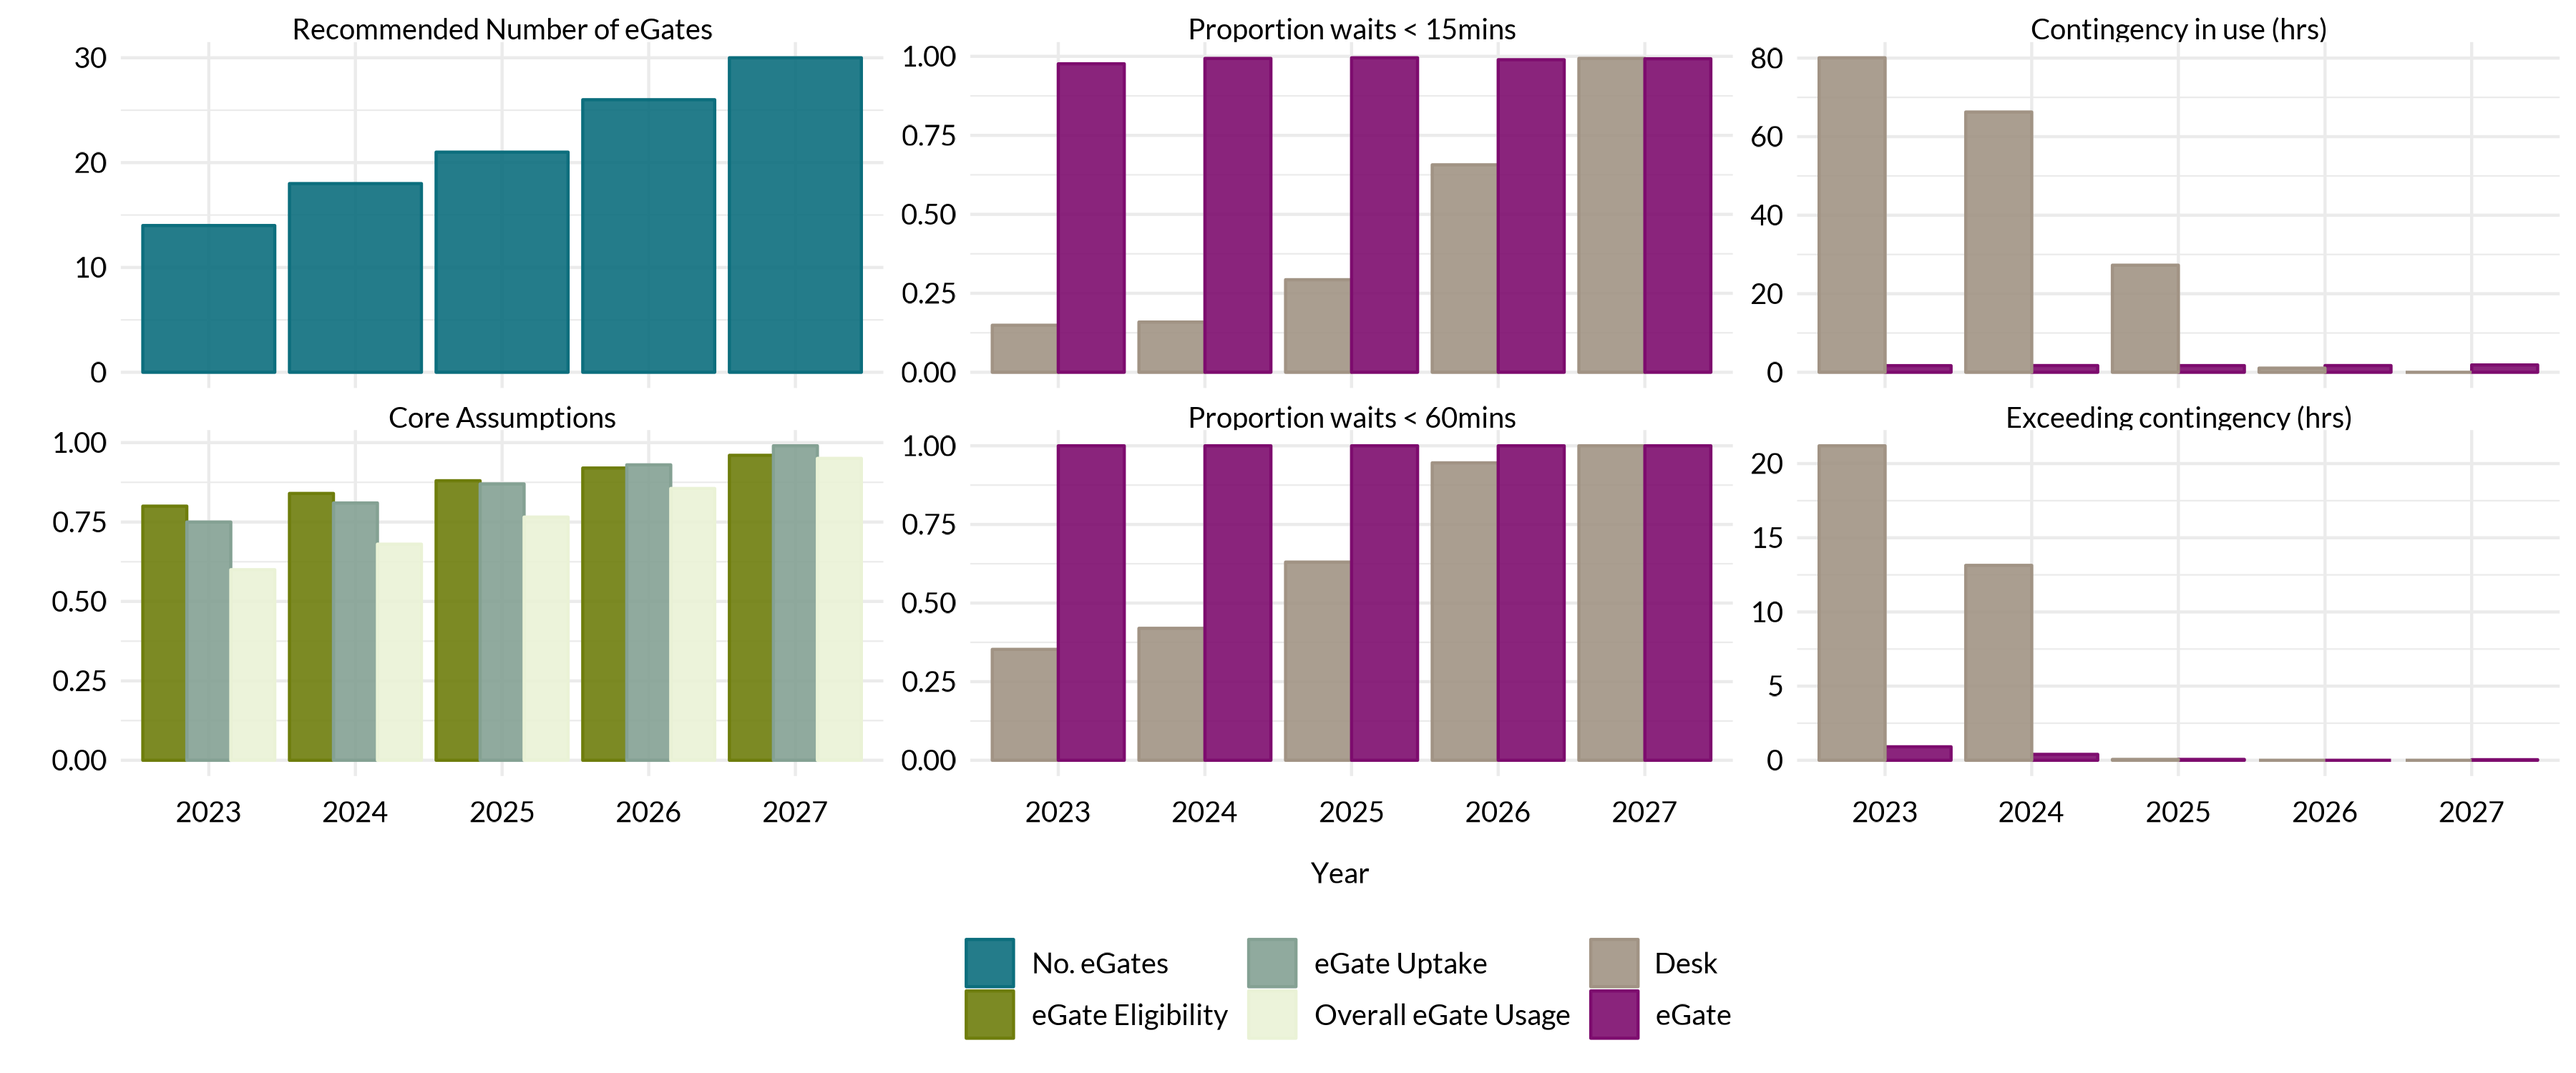
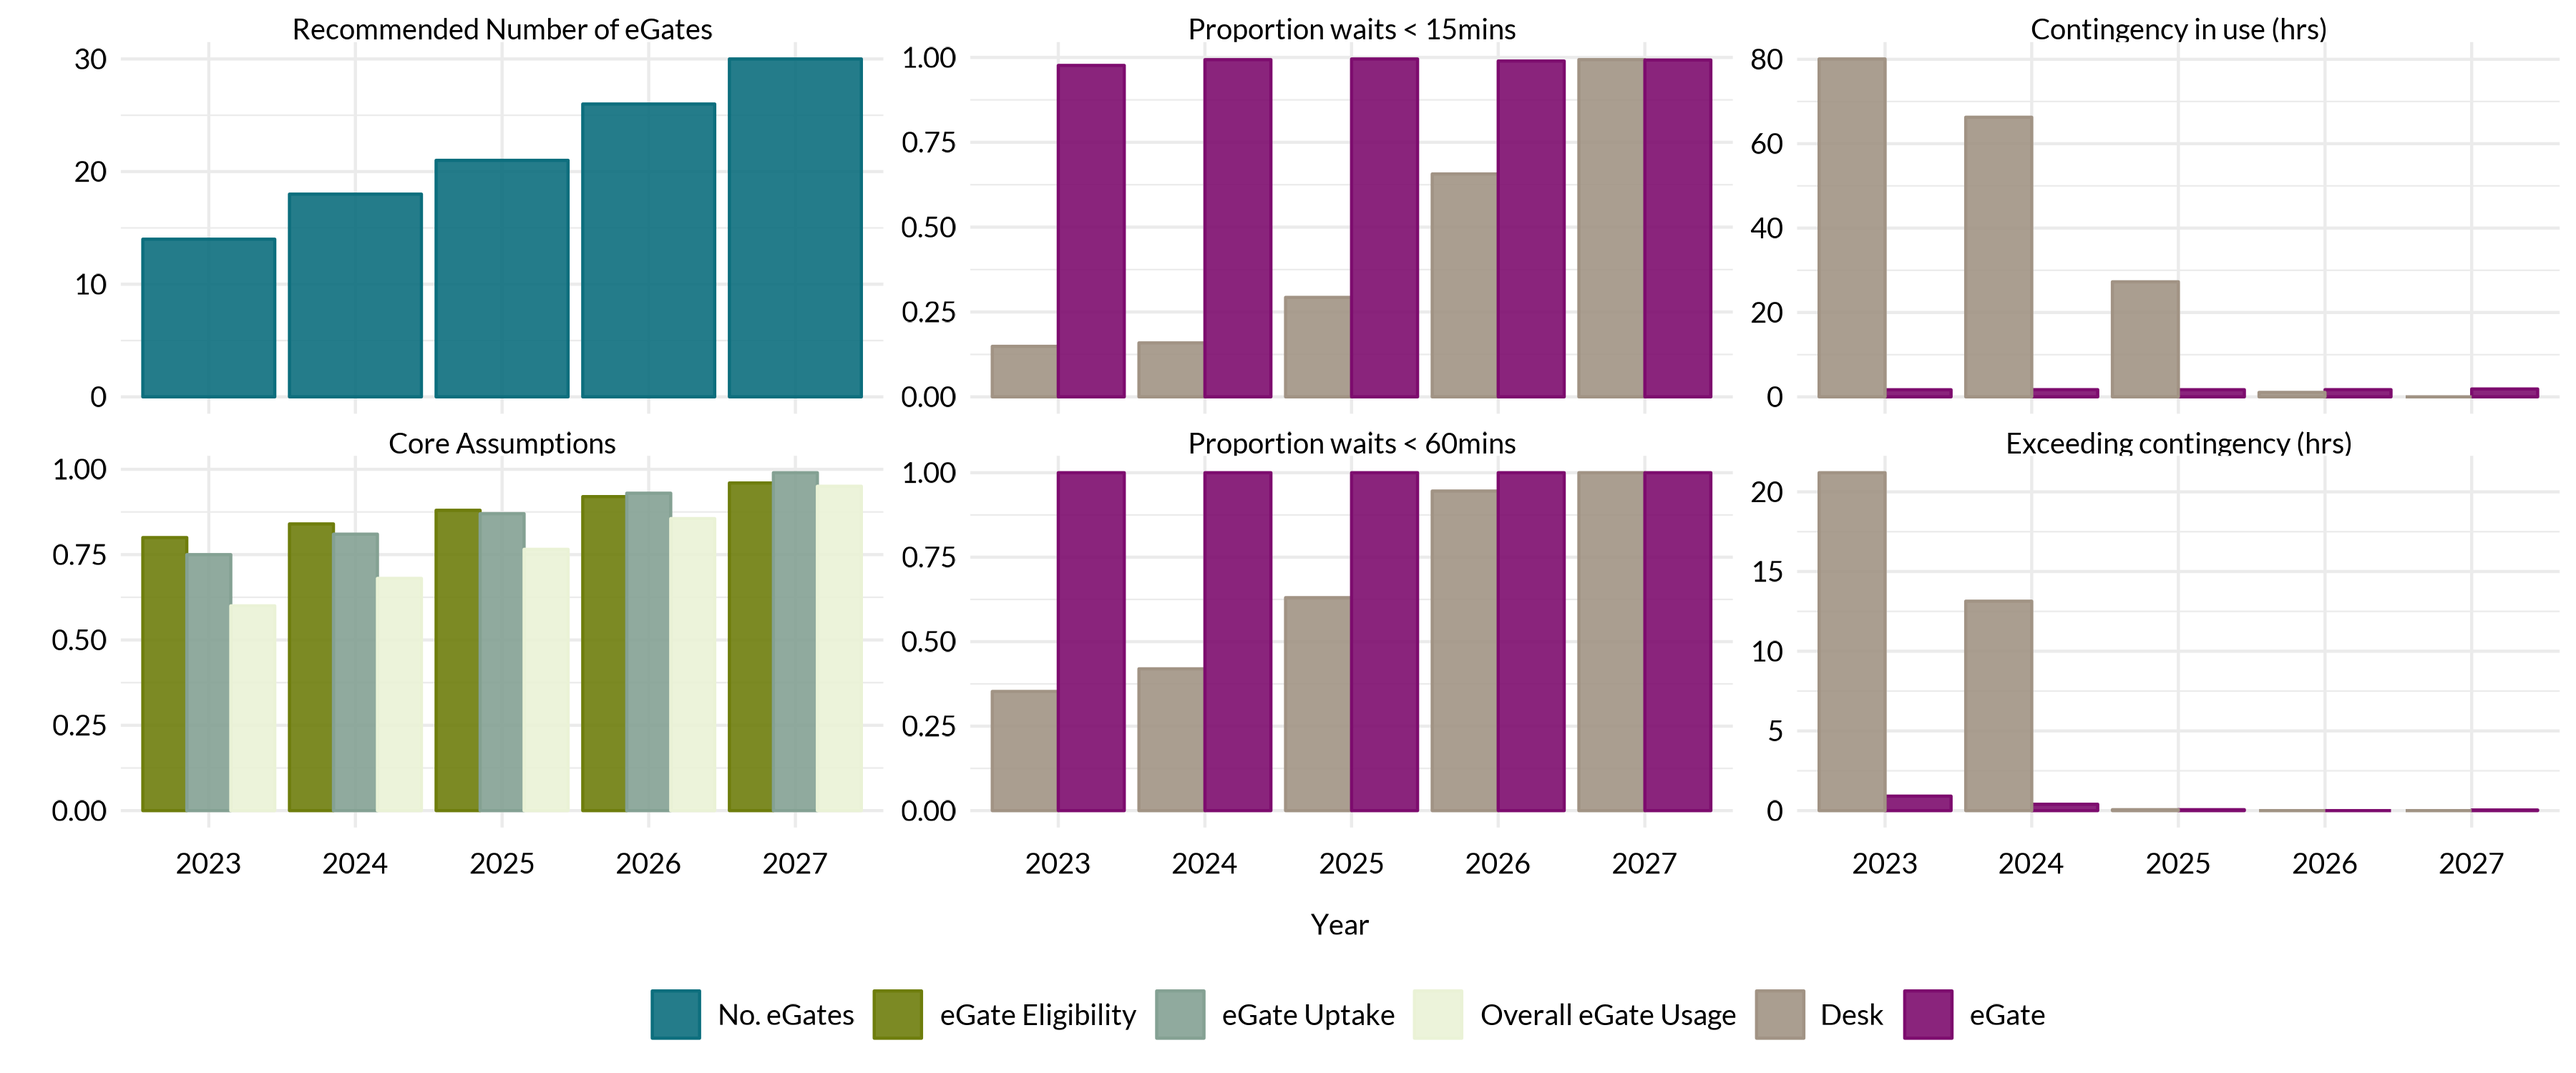
fix: legend on one row in rec figs

diff --git a/tables/core_recommendation.tex b/tables/core_recommendation.tex
@@ -1,5 +1,5 @@
 % latex table generated in R 4.2.3 by xtable 1.8-4 package
-% Thu Apr 27 17:58:27 2023
+% Thu Apr 27 18:26:44 2023
 \begin{table}[ht]
 \centering
 \begin{tabular}{ccccc}
